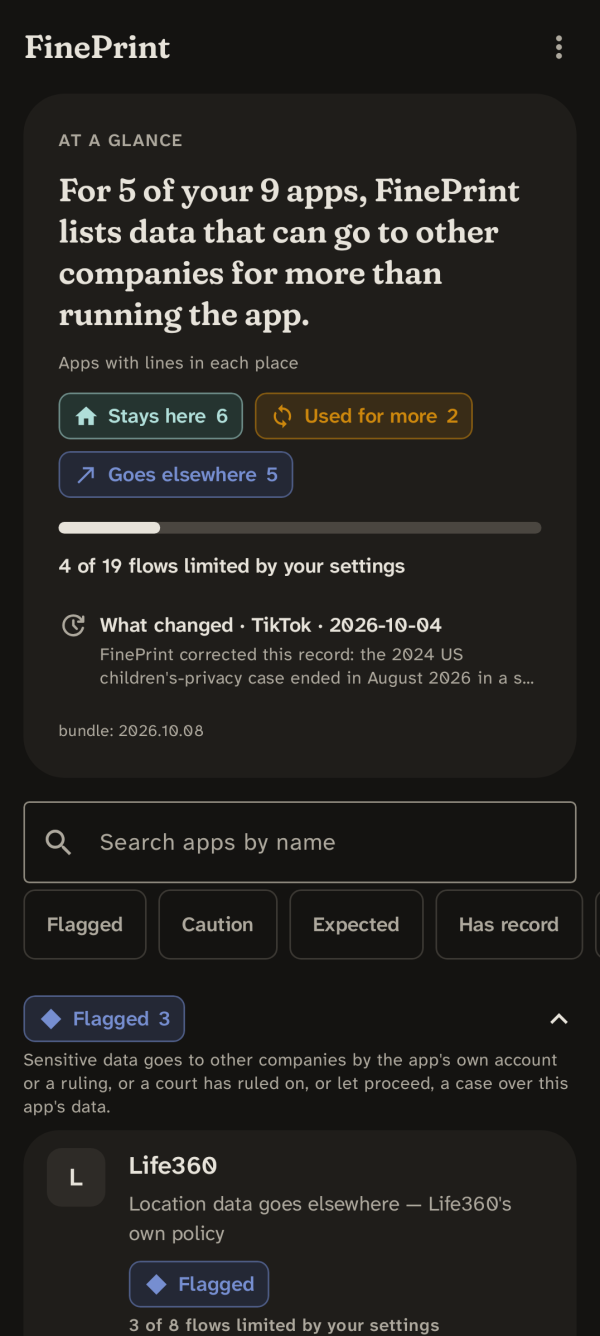
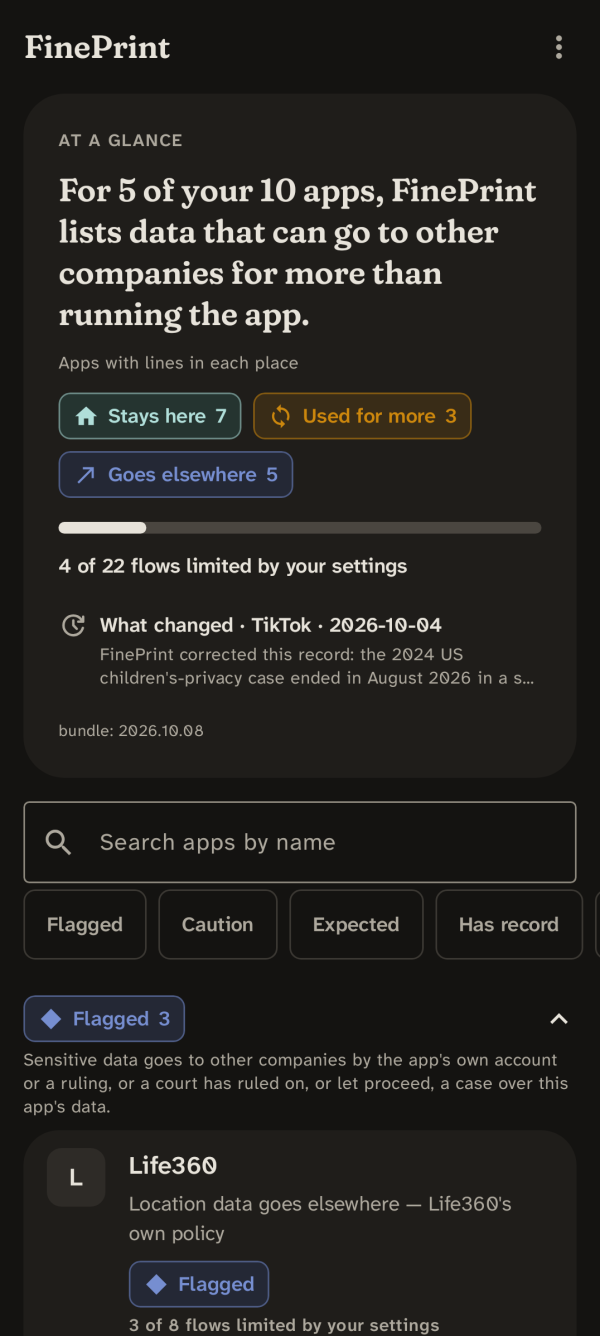
Scan fixture: every app record, Google Maps as not scanned
The preview shows every record only if its app is in the scan fixture.
Google Maps has a record but isn't installed on the test emulator, so it
joins the fixture with no trackers and "note": "not scanned", and one
unreadable entry, so its page says its code wasn't checked rather than
that its APK had none. test_scan_fixture.py fails when an app record is
missing from the fixture, and an entry with a note must be "not
scanned" with nothing detected; pipeline/README.md says so at the
review step.

The fixture now has 10 apps, so the README's home screenshots change
(For 5 of your 10 apps; chips 7, 3 and 5; 4 of 22 flows), redrawn by
readmeScreenshots; Life360's page is unchanged. The caption says the
fixture holds Google Maps too.

Claude-Session: https://claude.ai/code/session_016cezgH7PfKCPMWXu7PCC2T

diff --git a/pipeline/test_scan_fixture.py b/pipeline/test_scan_fixture.py
@@ -1,0 +1,47 @@
+#!/usr/bin/env python3
+"""Every app record is in the scan fixture, so the preview build shows it:  python3 pipeline/test_scan_fixture.py
+
+android/app/src/debug/assets/scan-fixture.json holds the test emulator's apps as FinePrint scanned them; the app's
+tests, the README's screenshots and the preview build read it. An app with a record that isn't installed on the
+emulator is there too, with no trackers and "note": "not scanned".
+"""
+from __future__ import annotations
+
+import json
+import unittest
+from pathlib import Path
+
+REPO = Path(__file__).resolve().parent.parent
+REVIEWED = REPO / "pipeline" / "reviewed"
+FIXTURE = REPO / "android" / "app" / "src" / "debug" / "assets" / "scan-fixture.json"
+
+
+def record_packages(reviewed: Path = REVIEWED) -> set[str]:
+    """The package of every reviewed app record."""
+    packages = set()
+    for path in reviewed.glob("*.json"):
+        doc = json.loads(path.read_text(encoding="utf-8"))
+        if isinstance(doc, dict):
+            packages |= {app["package_id"] for app in doc.get("apps", [])}
+    return packages
+
+
+def fixture_apps(path: Path = FIXTURE) -> dict[str, dict]:
+    return {app["package"]: app for app in json.loads(path.read_text(encoding="utf-8"))["apps"]}
+
+
+class ScanFixtureTest(unittest.TestCase):
+    def test_every_app_record_is_in_the_fixture(self):
+        missing = sorted(record_packages() - fixture_apps().keys())
+        self.assertEqual(missing, [], 'add each to scan-fixture.json: scanned on the test emulator, or "note": "not scanned" with no trackers')
+
+    def test_an_app_that_was_not_scanned_says_so_and_detects_nothing(self):
+        for package, app in fixture_apps().items():
+            if "note" in app:
+                with self.subTest(package):
+                    self.assertEqual(app["note"], "not scanned")
+                    self.assertEqual((app["trackers"], app["referenced_only"], app["dex_files"], app["classes"]), ([], [], 0, 0))
+
+
+if __name__ == "__main__":
+    unittest.main()

diff --git a/pipeline/README.md b/pipeline/README.md
@@ -10,7 +10,10 @@ Build order (each is a separate script, each is idempotent):
 2. `fetch_app.py <package>` — Exodus report, Play listing metadata, privacy-policy URL → `raw/` (gitignored).
 3. `draft.py <package>` — LLM draft of tracker/app records with mandatory `sources`; refuses to emit
    a consequence with no source. Writes to `drafts/` (gitignored). Hand-run via Codex CLI for now.
-4. `review.py` — opens the draft queue; approved records move into `reviewed/`.
+4. `review.py` — opens the draft queue; approved records move into `reviewed/`. A new app record's package also
+   goes into the scan fixture, `android/app/src/debug/assets/scan-fixture.json`: as scanned on the test emulator,
+   or, if it isn't installed there, with no trackers and `"note": "not scanned"`. Then the preview build shows every
+   record; `test_scan_fixture.py` fails until it's there.
 5. `build.py` — merges `reviewed/*.json`, rejects duplicate ids, marks records older than 180 days
    `stale`, validates against `../bundle/schema.json`, cross-checks company, source and tracker ids
    (a tracker record may cover several ids; each id has one explanation at most),

diff --git a/README.md b/README.md
@@ -23,8 +23,8 @@ supported by exactly one hardcoded ad that knows nothing about you.
 </p>
 
 Drawn by the screenshot tests (`./gradlew readmeScreenshots`), never by hand, from knowledge bundle 2026.10.08
-and the test emulator's apps. In dark mode: [the home](docs/screenshots/home-dark.png) and
-[Life360](docs/screenshots/detail-dark.png).
+and the scan fixture: the test emulator's apps, plus Google Maps, which has a record but isn't installed there.
+In dark mode: [the home](docs/screenshots/home-dark.png) and [Life360](docs/screenshots/detail-dark.png).
 
 ## Preview build
 
